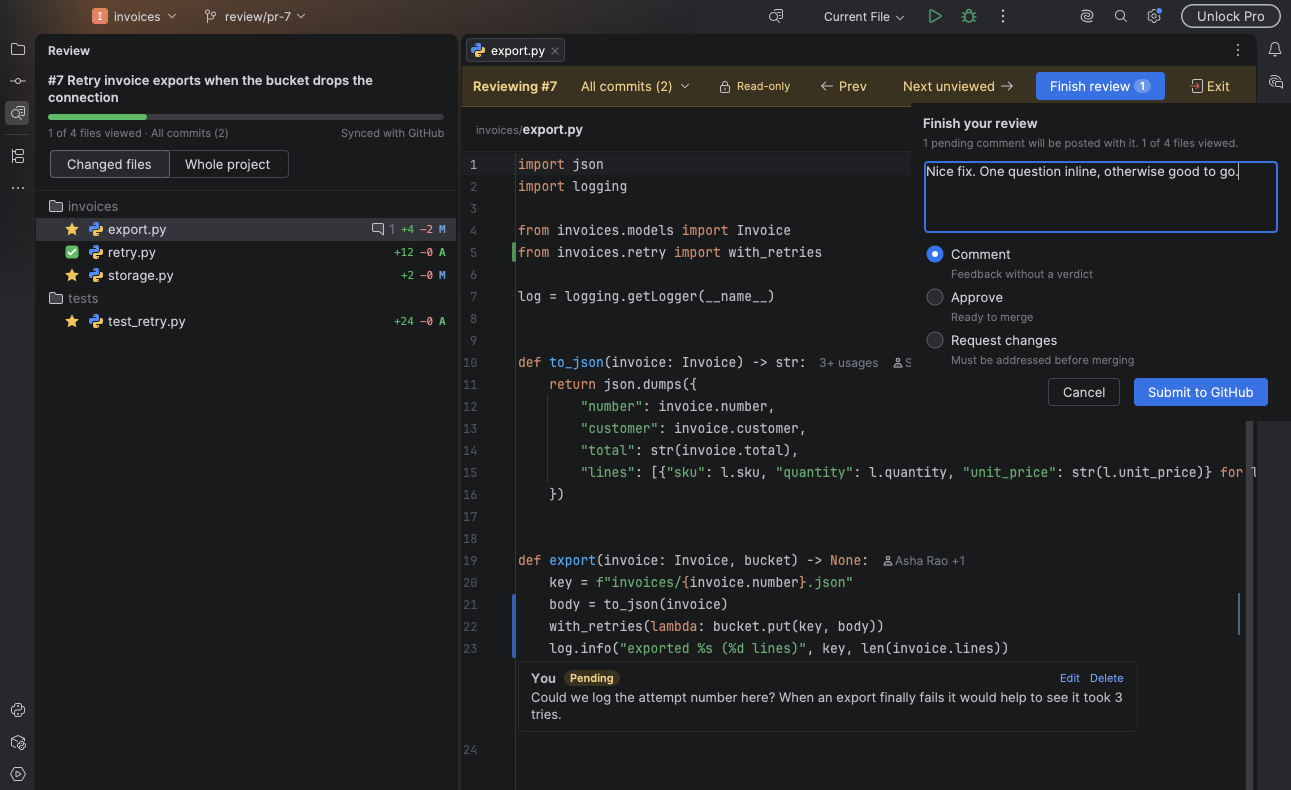
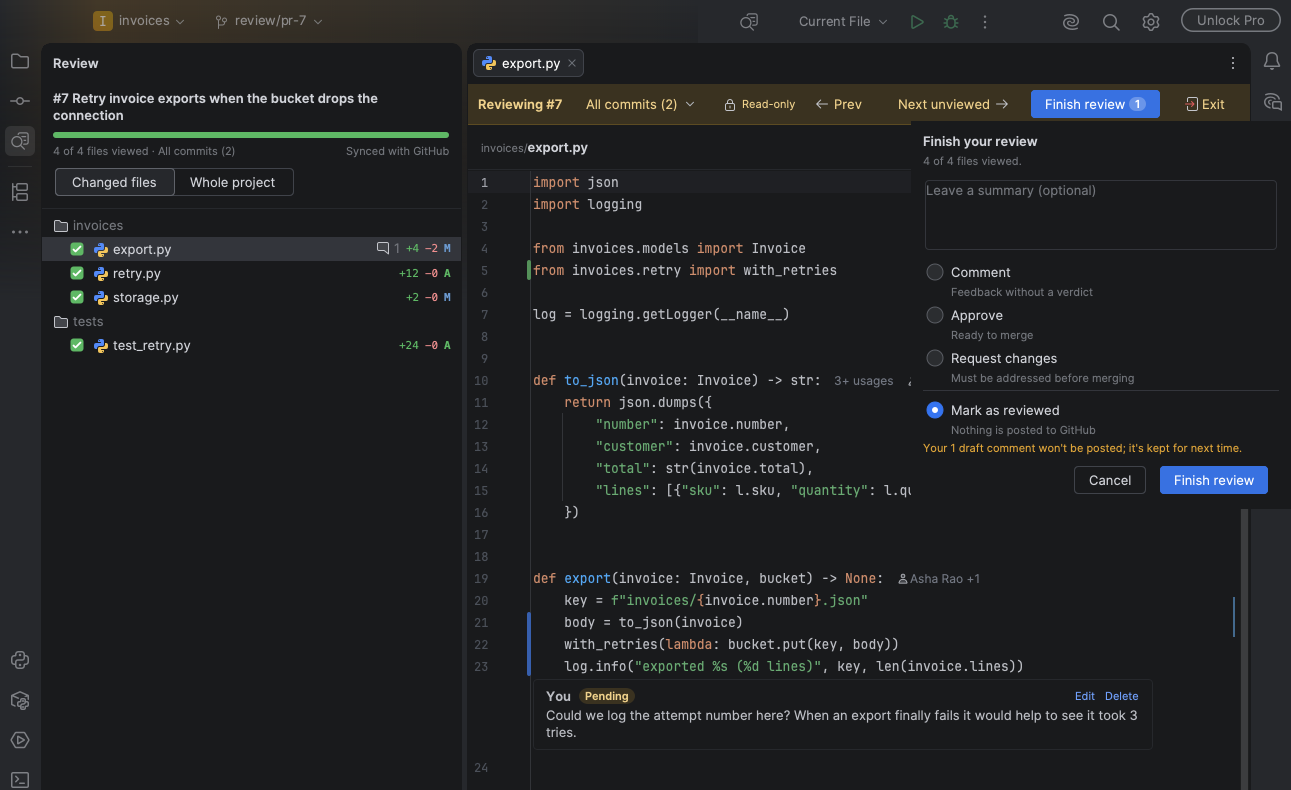
docs(review-lens): show Mark as reviewed and the return to the PR list in the READMEs and screenshots, so 0.1.2's docs match its finish flow

diff --git a/jetbrains/README.md b/jetbrains/README.md
@@ -64,20 +64,22 @@ and write. Comments stay drafts until you finish.
 | File / Diff | `⌥D` / `Alt+D` | The full file with changes marked, or a side-by-side diff |
 | Viewed | `⌥R` / `Alt+R` | Tick the file and open the next one |
 
-**5. Finish review.** Add a summary, pick **Comment**, **Approve** or **Request changes**, and click **Submit to GitHub**. Your
-drafts go to GitHub as one review.
+**5. Finish review.** Once every file is viewed, Review Lens offers **Finish review…**. Add a summary, pick **Comment**,
+**Approve** or **Request changes**, and click **Submit to GitHub**: your drafts go to GitHub as one review. Nothing to
+say? Pick **Mark as reviewed**: nothing is posted, and any drafts are kept. Either way you're back on your branch with
+your work restored, on the pull request list, where the PR shows **✓ Reviewed** in green. Click it to **Review again**.
 
 ![Finish review](../docs/images/finish.png)
 
-**6. Exit review.** You're back on your branch with your work restored. Come back any time: **Resume review** keeps
-your ticks and drafts.
+**6. Or exit partway.** **Exit** puts you back on your branch with your work restored, without finishing. Come back any
+time: **Resume review** keeps your ticks and drafts.
 
 ## Troubleshooting
 
 | You see | Do this |
 |---|---|
 | "Couldn't get pull requests from GitHub · showing branches" | `gh` is missing, signed out or offline. Run `gh auth status`. |
-| "Back on *your-branch*: your changes need a hand" | Your parked work conflicted with the branch. It's safe in the stash `review-lens: parked from …`. Resolve it, or run `git stash pop`. |
+| "Back on *your-branch*" or "Finished #*N*": "your changes need a hand" | Your parked work conflicted with the branch. It's safe in the stash `review-lens: parked from …`. Resolve it, or run `git stash pop`. |
 | "…Your comments are kept as drafts" | GitHub refused the review, and the message gives its reason (for example, a comment on a line that no longer exists). Fix that comment and finish again. Nothing was lost. |
 | Typing in a file does nothing | PR files are read-only during a review. Exit review to edit your own branch. |
 

diff --git a/README.md b/README.md
@@ -31,14 +31,16 @@ Then it puts you back exactly where you were.
 ```mermaid
 flowchart LR
     A["Your branch<br/>with uncommitted work"] -->|Start review:<br/>work parked| B["The PR, read-only<br/>full files, changes marked"]
-    B -->|Finish review| C(["GitHub:<br/>one review"])
-    B -->|Exit review:<br/>work restored| D["Your branch<br/>as you left it"]
+    B -->|Finish review:<br/>post or mark reviewed| C(["GitHub: one review,<br/>or nothing posted"])
+    C -->|work restored| D["Your branch as you left it,<br/>the PR list ready for the next"]
+    B -->|Exit review:<br/>work restored| D
 ```
 
 - **Your work stays safe.** Uncommitted changes are parked and come back exactly on Exit.
 - **Read the change in context.** Full files, changes marked in the gutter, a diff one click away.
 - **Track progress.** ⭐ not viewed · ✅ viewed · 🔄 changed since viewed, synced with GitHub.
-- **Comment, then post once.** Drafts, summary and verdict go to GitHub as a single review.
+- **Comment, then post once.** Drafts, summary and verdict go to GitHub as a single review, or mark it reviewed without posting.
+- **See what's done.** Reviewed PRs turn green in the list with their verdict: ✓ Reviewed · approved.
 - **Review only what's new.** Pick all commits, some commits, or only those since your last review.
 
 ## Get started
